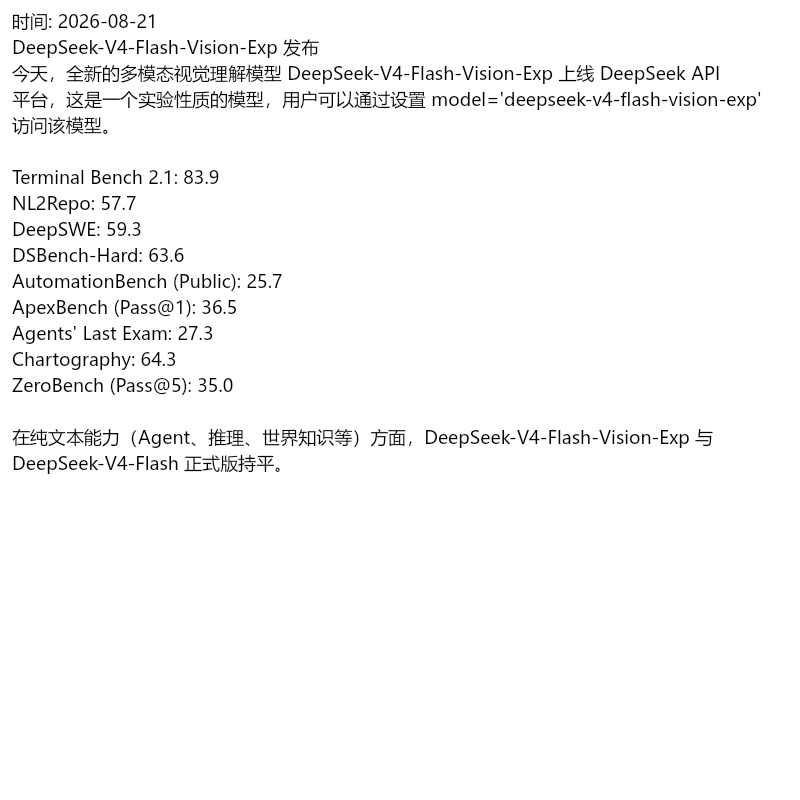
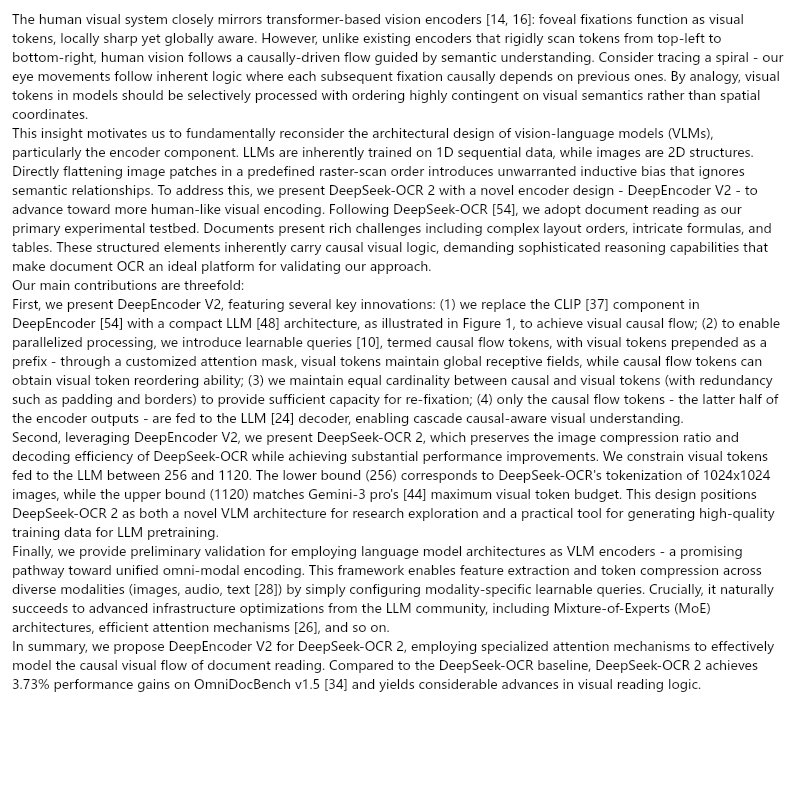
docs: example page = DeepSeek-OCR 2 abstract (767 text tokens → 384-image tokens @13px, 2x); honest EN vs CJK note

Changed region(s): [[0.0, 0.0, 0.9688, 0.875]]

diff --git a/README.md b/README.md
@@ -7,9 +7,14 @@
 
 ## 效果示例
 
-下图即插件渲染出的文字图片页（800×800 原图，18px，token 计费 = **384**）：
+下图即 DeepSeek-OCR 2 论文摘要（[arXiv 2601.20552](https://arxiv.org/pdf/2601.20552)），
+原文 **3,873 字符 = 767 token**（DeepSeek-V3 tokenizer 实测）；以 **13px 渲染为单张
+800×800 图片后仅计 **384 token**（约 **2×**）：
 
 ![text2img 渲染示例页](assets/example-page.png)
+
+> 注意：**英文正文收益约 1~2×**（英文每 token ≈ 5 字符，13px 图片每 token 装约 10 字符）；
+> **中文长文收益 4~6×**（中文每 token ≈ 1 字符，18px 每页约 1,250 字）——见"原理"一节的实测数据。
 
 一个 [DeepSeek Harness](https://github.com/deepseek-ai/deepseek-harness)（DSH）插件：
 输入框右侧出现「图」开关，开启后，**超过阈值的长消息**在发送给模型前会被自动渲染为

diff --git a/README.en.md b/README.en.md
@@ -11,9 +11,15 @@ A [DeepSeek Harness](https://github.com/deepseek-ai/deepseek-harness) plugin. A 
 
 ## Example
 
-A rendered page as produced by the plugin (800×800 original, 18px, billed as **384 tokens**):
+The image below is the DeepSeek-OCR 2 abstract ([arXiv 2601.20552](https://arxiv.org/pdf/2601.20552)):
+**3,873 chars = 767 tokens** as text (measured with the DeepSeek-V3 tokenizer); rendered at **13px
+into a single 800×800 page it costs 384 tokens** (~**2×**):
 
 ![text2img rendered example page](assets/example-page.png)
+
+> Note: English prose gains ~1–2× (≈5 chars/token as text vs ≈10 chars per image token at 13px);
+> **CJK text gains 4–6×** (≈1 char/token as text, ≈1,250 chars per 18px page) — see the measured
+> figures under "How it works".
 
 ## How it works
 
